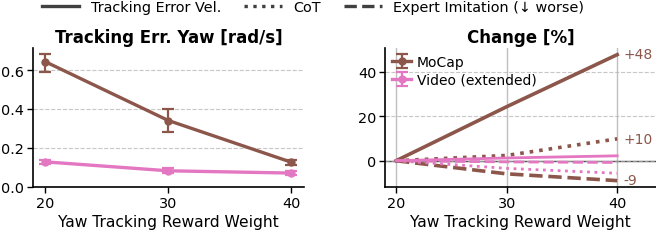
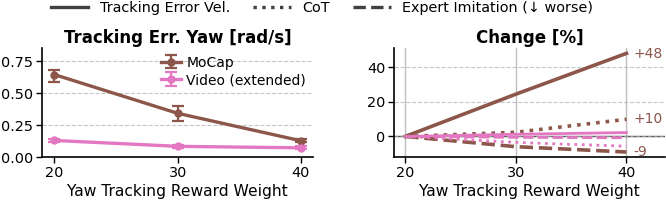
Reward-weight two-panel figure: lower height, dataset legend in left panel
Claude-Session: https://claude.ai/code/session_01FMmpyyUJmMhCKnGYxLXAnF

diff --git a/additional_experiments_fable_20260906/scripts/fig5_reward_weight_4metrics.py b/additional_experiments_fable_20260906/scripts/fig5_reward_weight_4metrics.py
@@ -71,7 +71,7 @@ def two_panels(data, weights):
     """Two panels (height as the paper's Fig. 5): yaw tracking error (absolute) | velocity tracking error, CoT and expert
     imitation as change relative to the dataset's own default weight. Seed means only (ranges: table / 2x2 figure). Weights 20-40."""
     weights = [w for w in weights if w <= MAX_W_2P]
-    fig, axes = plt.subplots(1, 2, figsize=(COL_W, 0.36 * COL_W))
+    fig, axes = plt.subplots(1, 2, figsize=(COL_W, 0.31 * COL_W))
     ax = axes[0]
     for name, byw in data.items():
         ws = [w for w in sorted(byw) if w <= MAX_W_2P]
@@ -84,8 +84,11 @@ def two_panels(data, weights):
         yerr = [np.maximum(mean - lo, MIN_WHISKER), np.maximum(hi - mean, MIN_WHISKER)]
         ax.errorbar(ws, mean, yerr=yerr, color=COLORS[name], marker="o", ms=2.0, lw=1.2, capsize=2.0, elinewidth=0.8, capthick=0.8, label=LEGEND[name], zorder=3)
     ax.set_title("Tracking Err. Yaw [rad/s]", fontsize=6, fontweight="bold", pad=2)
-    ax.set_ylim(bottom=0)
+    ax.set_ylim(0, 0.85)  # head room for the dataset legend (upper right)
+    ax.set_yticks([0, 0.25, 0.5, 0.75])
     h_sets, l_sets = ax.get_legend_handles_labels()
+    ax.legend(h_sets, [l.replace(" (AMP)", "").replace("Video w. Depth Camera", "Video") for l in l_sets],
+              fontsize=5.0, frameon=False, loc="upper right", handlelength=1.4, borderaxespad=0.1, labelspacing=0.25, handletextpad=0.4)
     ax = axes[1]
     for name, byw in data.items():
         ws = [w for w in sorted(byw) if w <= MAX_W_2P]
@@ -101,8 +104,6 @@ def two_panels(data, weights):
     ax.set_title("Change [%]", fontsize=6, fontweight="bold", pad=2)
     ax.set_yticks([0, 20, 40])
     ax.set_xlim(19, 43.5)
-    ax.legend(h_sets, [l.replace(" (AMP)", "").replace("Video w. Depth Camera", "Video") for l in l_sets],
-              fontsize=5.0, frameon=False, loc="upper left", handlelength=1.4, borderaxespad=0.1, labelspacing=0.25, handletextpad=0.4)
     from matplotlib.lines import Line2D
     hs = [Line2D([], [], color="0.25", ls=ls, lw=1.2, label=lab) for ls, _, lab, _ in RIGHT.values()]
     fig.legend(handles=hs, loc="lower center", ncol=3, fontsize=5.2, frameon=False, bbox_to_anchor=(0.5, 0.935), handlelength=2.6, columnspacing=1.6, borderaxespad=0.0, borderpad=0.0)
@@ -113,7 +114,7 @@ def two_panels(data, weights):
         ax.set_xlabel("Yaw Tracking Reward Weight", fontsize=5.6, labelpad=1.5)
         for sp in ("top", "right"):
             ax.spines[sp].set_visible(False)
-    fig.subplots_adjust(top=0.80, bottom=0.25, left=0.1, right=0.99, wspace=0.3)
+    fig.subplots_adjust(top=0.78, bottom=0.28, left=0.1, right=0.99, wspace=0.3)
     import os as _os
     from common import FIG
     for ext, kw in (("pdf", {}), ("png", {"dpi": 200})):  # tight crop without the default 0.1 in padding
